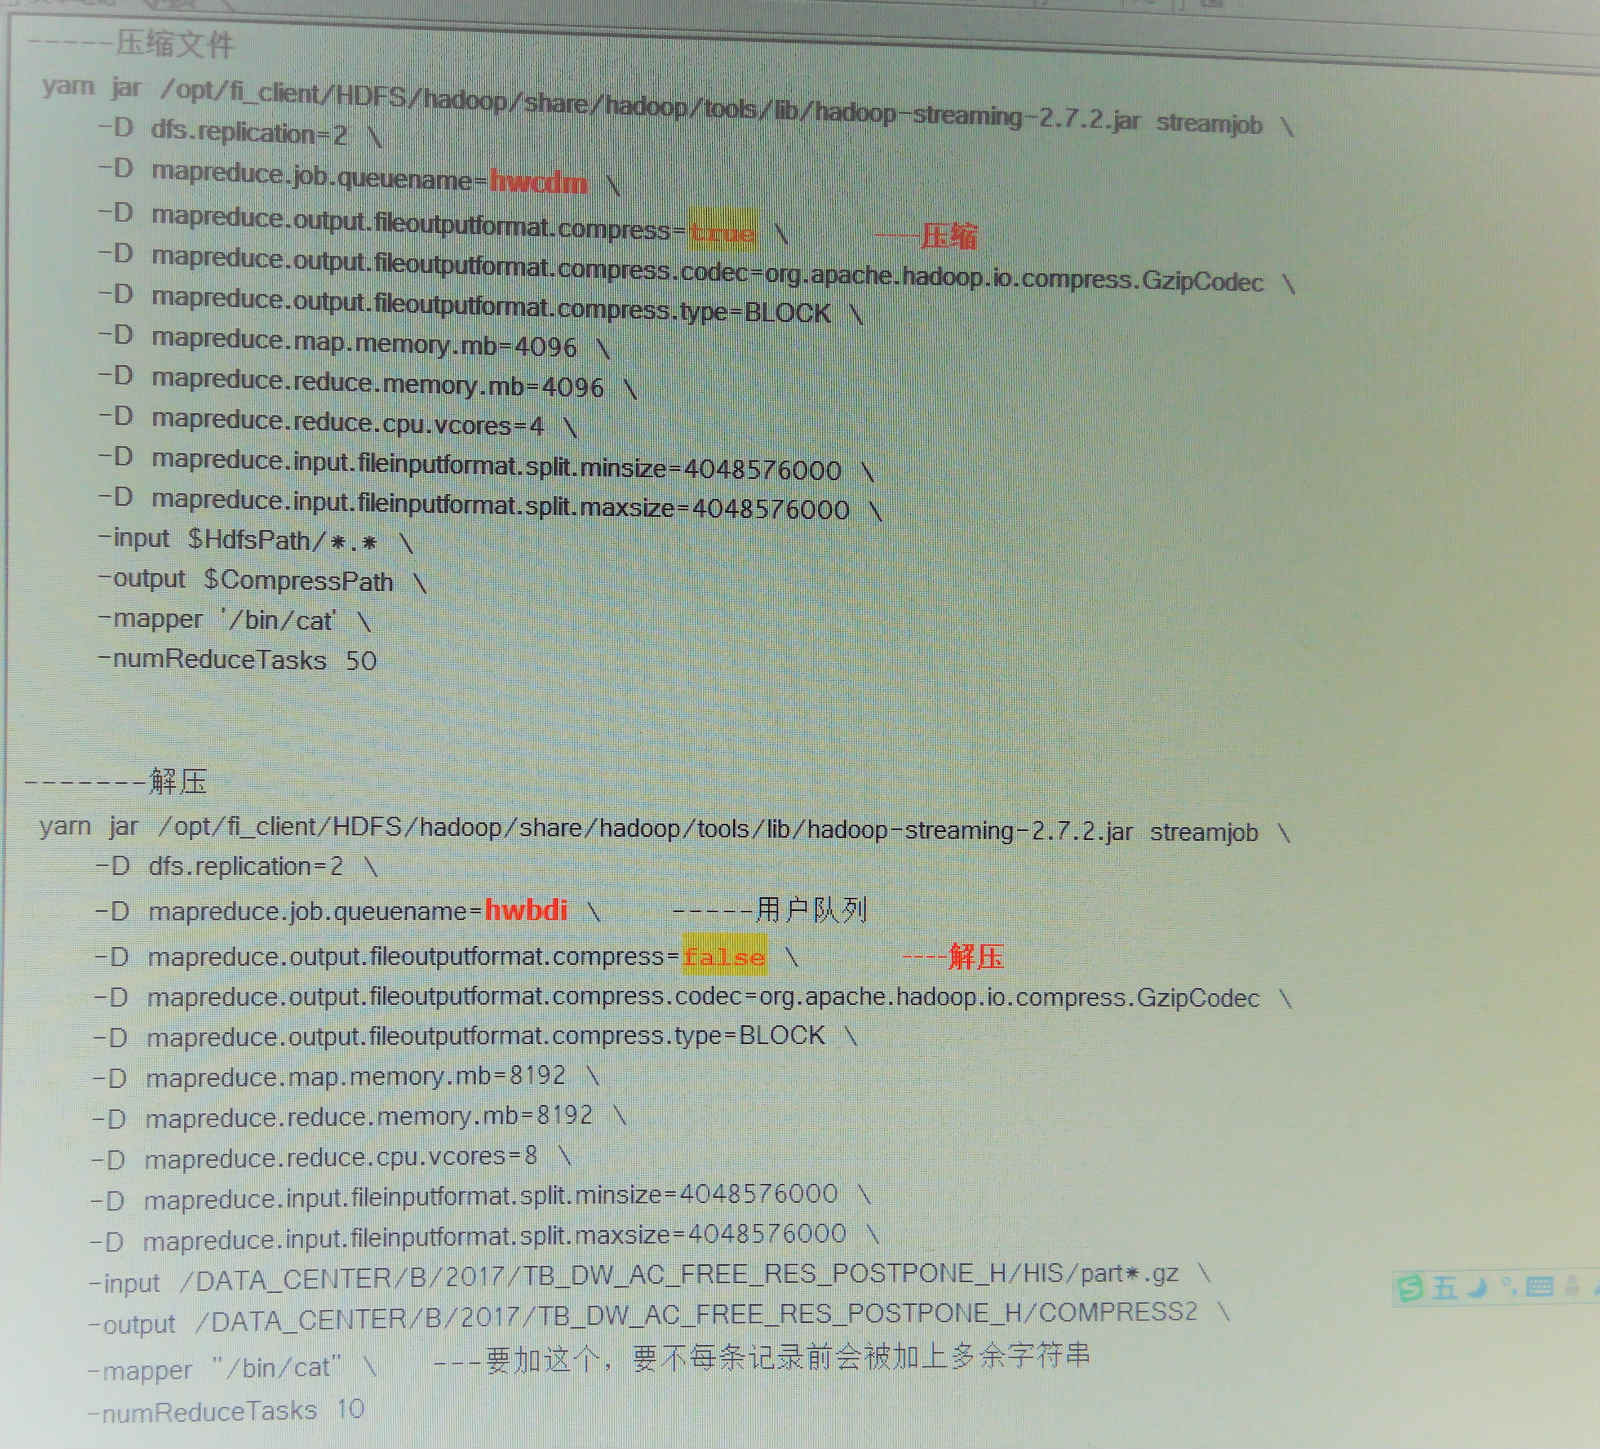
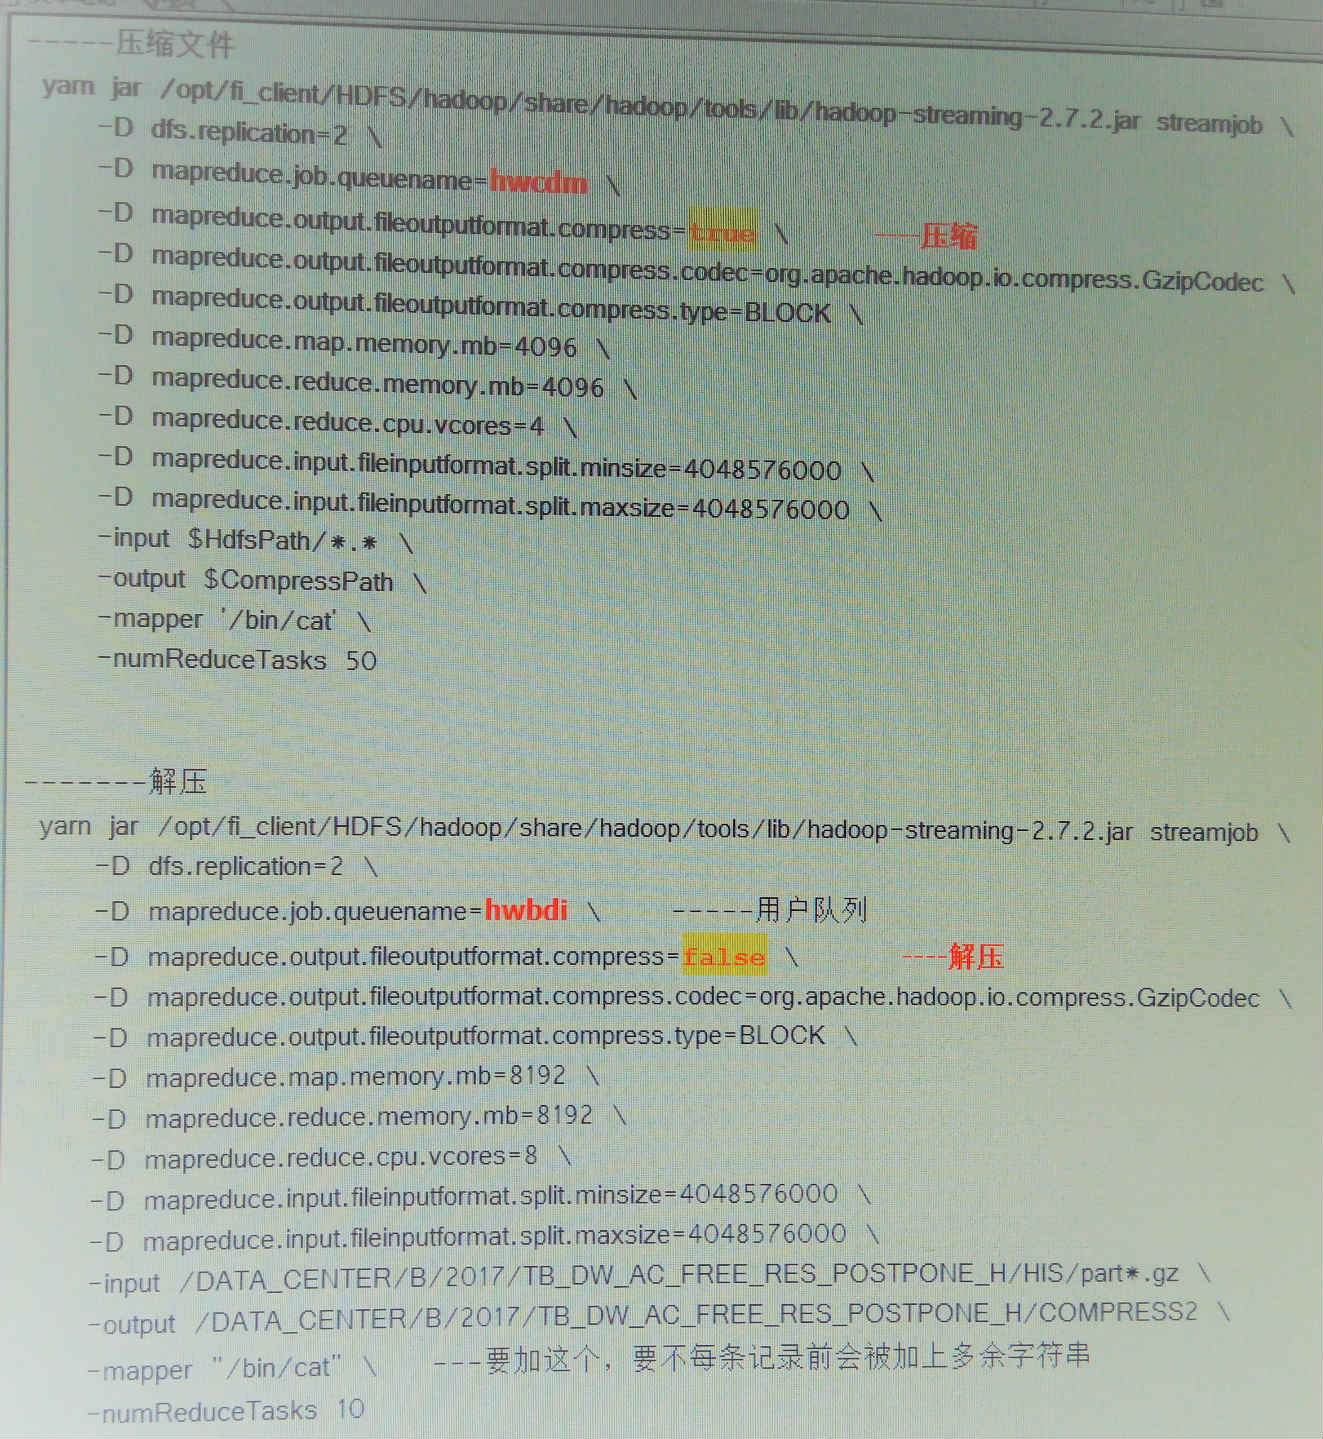
修改hadoop批量压缩文章添加图片

diff --git a/_posts/2018-04-30-Hadoop-compress.md b/_posts/2018-04-30-Hadoop-compress.md
@@ -52,7 +52,7 @@ yarn jar /home/zyh/apps/hadoop/share/hadoop/tools/lib/hadoop-streaming-2.7.2.jar
 	-D mapper `/bin/cat` \   ---不清楚作用，解压要加上，要不每条记录前会多字符
 	-D numReduceTasks 50
 ```
-![](/img/hadoop-hive/hadoop-compress.jpg)
+![](/img/hadoop-hive/hadoop-compress.jpg){:height="85%" width="85%"}
 
-    {:height="75%" width="75%"}
+    
   
